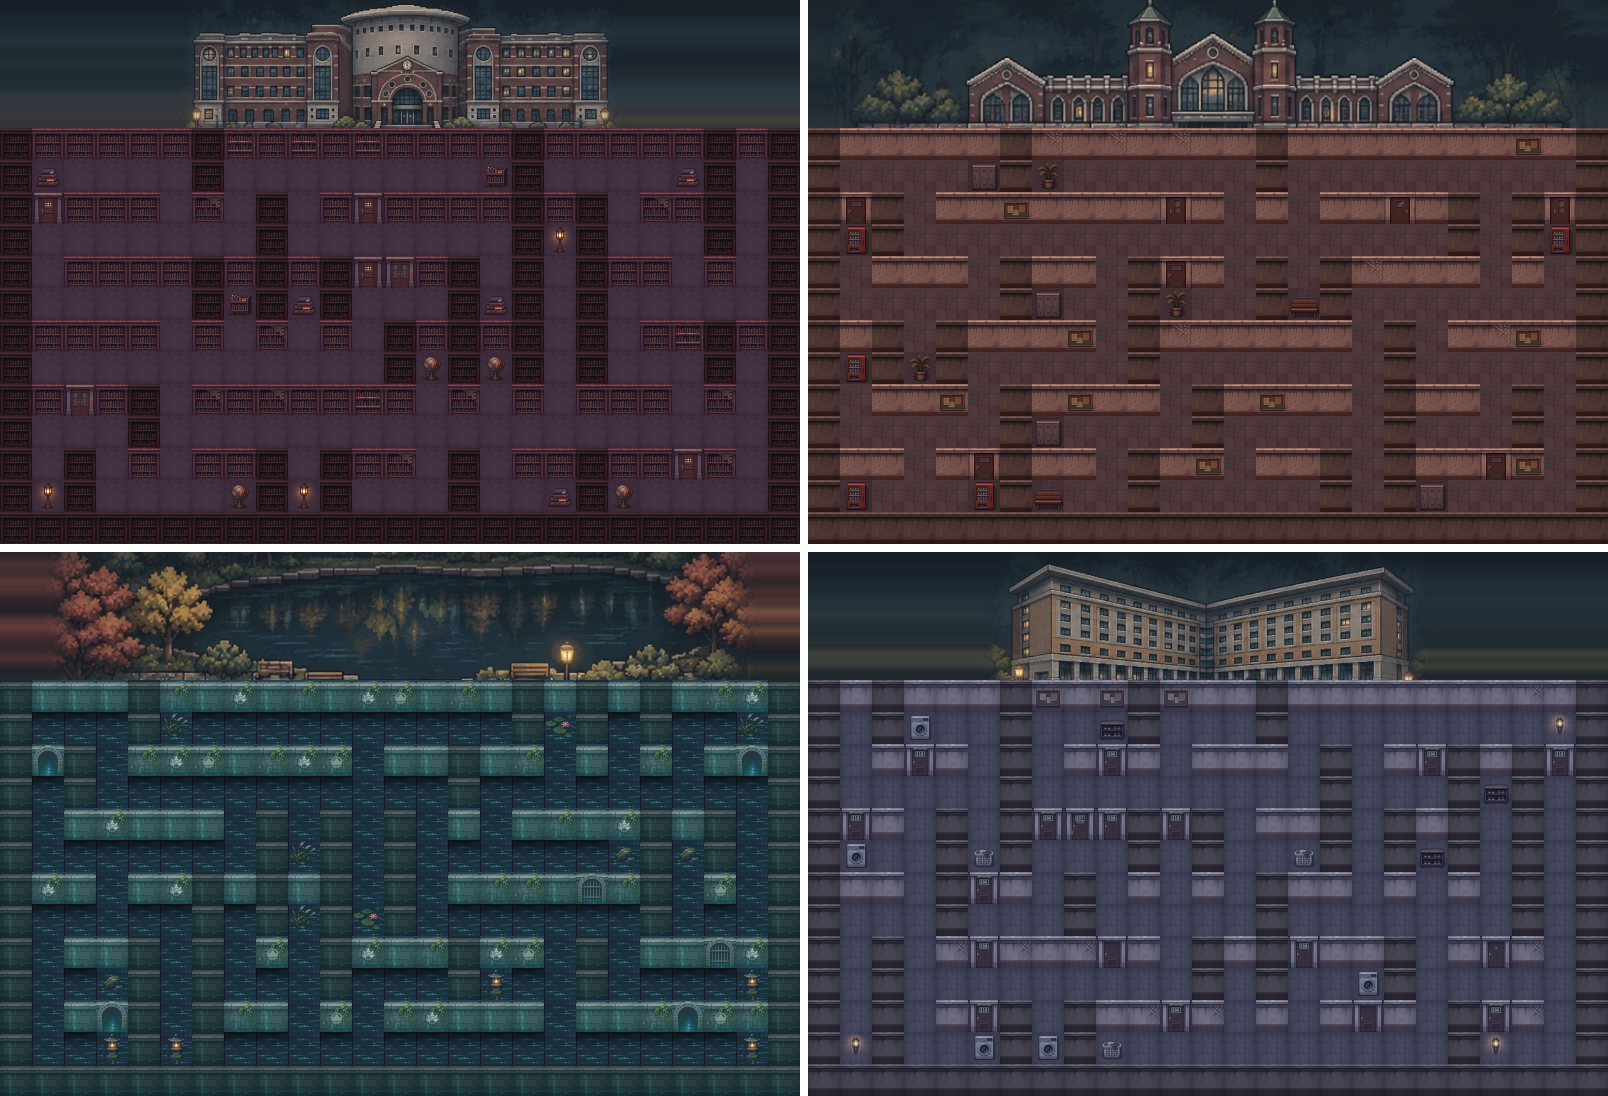
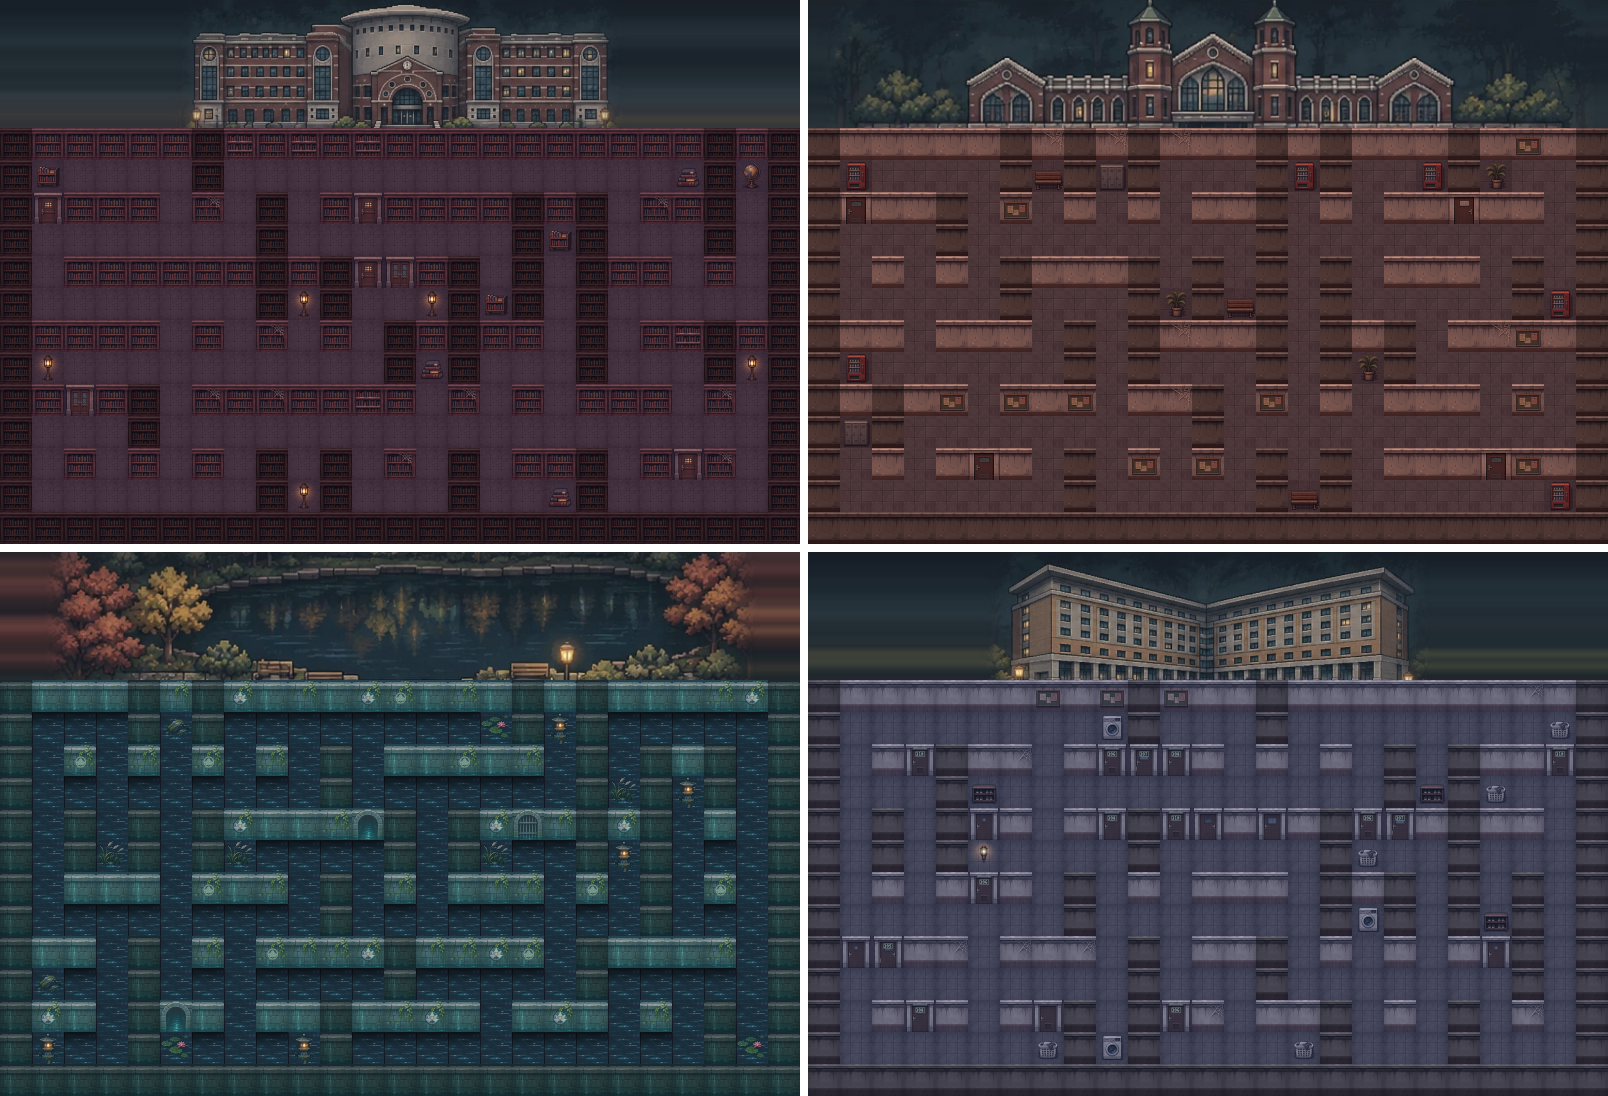
미로 랜덤 수정 & 무기 공격 Space

diff --git a/world.py b/world.py
@@ -8,7 +8,7 @@ from settings import (MAZE_COLS, MAZE_ROWS, TILE, ZONE_COUNT, ZONE_LAYOUT, FINAL
                       ZONE_NAMES, MONSTER_NAMES, MONSTER_SPRITES, FINAL_ZONE_NAME, BOSS_NAME,
                       DAY_LOOT, MAX_PICKUPS_PER_ZONE, FINAL_STAGE_POTIONS,
                       COURTYARD_ZONES, BUILDING_BAND_ROWS, COURTYARD_WALL_DENSITY,
-                      COURTYARD_COLS, COURTYARD_ROWS, COURTYARD_STEP, DECOR_PER_ZONE)
+                      COURTYARD_COLS, COURTYARD_ROWS, COURTYARD_STEP, COURTYARD_LOOPS, DECOR_PER_ZONE)
 from items import WeaponPickup, PotionPickup, Spear, Bow
 from entities import Monster, Boss, DIRECTIONS
 from themes import ASSET_DIR, DECOR_SYMBOLS, DEFAULT_THEME, ZONE_THEMES
@@ -113,7 +113,7 @@ class Maze:
         return parents[start], dist[start]
 
     @classmethod
-    def courtyard(cls, cols, rows, rng, band_rows, density, step=3, tries=4):
+    def courtyard(cls, cols, rows, rng, band_rows, density, step=3, tries=4, loops=0):
         """'건물 앞마당' 미로. 위쪽 band_rows 줄은 건물 그림 자리(벽으로 막음),
         그 아래는 담장으로 둘러싼 마당에 ㄱ·ㄴ·T자 벽 조각을 랜덤으로 세운다.
 
@@ -122,6 +122,8 @@ class Maze:
           그래서 "이미 벽으로 이어진 두 기둥 사이"에는 벽을 세우지 않는다. 담장 전체는 한 덩어리로 친다.
           → 길 찾기 없이도 모든 길이 항상 이어져 있다 (그래서 큰 미로도 빠르게 만들어짐).
         - 여러 번 만들어 보고 입구 → 탈출구 경로가 가장 긴 것을 고른다.
+        - 위 방법만 쓰면 길이 '나무 모양'이라 어디서 어디로 가든 길이 딱 하나뿐(갈림길은 전부 막다른 길).
+          그래서 마지막에 벽 loops칸을 뚫어 돌아가는 길(고리)을 만든다 → 길이 여러 갈래가 됨.
         반환: (미로, {"H": 입구, "E": 탈출구})
         """
         top, bottom = band_rows + 1, rows - 2               # 마당 안쪽 첫 줄 / 마지막 줄
@@ -183,10 +185,44 @@ class Maze:
                         grid[y][x] = 1
                         walls += 1
             maze = cls(grid)
+            maze.open_loops(rng, loops, top, bottom, keep)  # 고리를 뚫은 뒤에 길이를 재야 실제 난이도
             length = maze.distances_from(entrance).get(exit_, -1)
             if length > best_len:
                 best, best_len = maze, length
         return best, {"H": entrance, "E": exit_}
+
+    def open_loops(self, rng, count, top, bottom, keep=()):
+        """벽 count칸을 뚫어 길에 고리(돌아가는 길)를 만든다. 길을 막지는 않으므로 연결은 그대로 유지.
+        뚫을 수 있는 칸: 양옆(또는 위아래)이 길이고 반대쪽 두 칸은 벽인 '얇은 벽'. 큰 빈 공간이 생기지 않게.
+        막다른 길 옆의 벽을 먼저 뚫어서 막다른 길이 줄어들게 하고, 뚫은 곳끼리는 3칸 이상 떨어뜨린다."""
+        g, cols = self.grid, self.cols
+
+        def floor(x, y):
+            return 0 <= x < cols and 0 <= y < self.rows and g[y][x] == 0
+
+        def degree(x, y):
+            return sum(floor(x + dx, y + dy) for dx, dy in ((1, 0), (-1, 0), (0, 1), (0, -1)))
+
+        candidates = []
+        for y in range(top, bottom + 1):
+            for x in range(1, cols - 1):
+                if g[y][x] == 0 or (x, y) in keep:
+                    continue
+                horizontal = floor(x - 1, y) and floor(x + 1, y) and not floor(x, y - 1) and not floor(x, y + 1)
+                vertical = floor(x, y - 1) and floor(x, y + 1) and not floor(x - 1, y) and not floor(x + 1, y)
+                if horizontal or vertical:
+                    sides = [(x - 1, y), (x + 1, y)] if horizontal else [(x, y - 1), (x, y + 1)]
+                    near_dead_end = any(degree(*c) == 1 for c in sides)
+                    candidates.append((not near_dead_end, rng.random(), x, y))
+        candidates.sort()                                       # 막다른 길 옆부터, 그다음은 랜덤
+        opened = []
+        for _, _, x, y in candidates:
+            if len(opened) >= count:
+                break
+            if all(abs(x - ox) + abs(y - oy) >= 3 for ox, oy in opened):
+                g[y][x] = 0
+                opened.append((x, y))
+        return opened
 
 
 class Zone:
@@ -217,7 +253,7 @@ class Zone:
         if self.id in COURTYARD_ZONES:   # 건물 + 앞마당 랜덤 미로
             self.maze, markers = Maze.courtyard(COURTYARD_COLS, COURTYARD_ROWS, self.rng,
                                                 BUILDING_BAND_ROWS, COURTYARD_WALL_DENSITY,
-                                                step=COURTYARD_STEP)
+                                                step=COURTYARD_STEP, loops=COURTYARD_LOOPS)
             self.decor = self.place_decor(markers)
         elif map_file:    # 직접 디자인한 맵
             self.maze, markers, self.decor = Maze.from_file(os.path.join(ASSET_DIR, map_file))

diff --git a/settings.py b/settings.py
@@ -28,6 +28,7 @@ COURTYARD_ROWS = 17              # 세로 칸 수 (COURTYARD_ROWS - BUILDING_BAN
 BUILDING_BAND_ROWS = 4           # 건물 그림이 차지하는 줄 수 (4줄 = 128px)
 COURTYARD_STEP = 2               # 벽 격자 간격. 2 = 통로 1칸(복잡), 3 = 통로 2칸(널찍)
 COURTYARD_WALL_DENSITY = 0.5     # 마당 안쪽에서 벽이 차지하는 최대 비율 (클수록 복잡)
+COURTYARD_LOOPS = 7              # 벽을 몇 칸 뚫어 돌아가는 길을 만들지 (0 = 길이 딱 하나뿐인 미로, 클수록 갈래가 많음)
 DECOR_PER_ZONE = 14              # 타일 세트에 장식이 있는 건물: 막다른 길에 놓을 장식 수 (못 지나감)
 # 직접 디자인한 맵 파일(assets/ 기준). COURTYARD_ZONES에서 빼면 이 맵을 쓴다. 둘 다 없으면 기본 랜덤 미로.
 #   맵 기호: # 벽   . 길   H 입구   E 탈출구   P 화분  T 책상  L 조명 (장식은 지나갈 수 없음)

diff --git a/scenes.py b/scenes.py
@@ -19,7 +19,7 @@ MOVE_KEYS = {
     pygame.K_d: (1, 0), pygame.K_RIGHT: (1, 0),
 }
 LEFT_CLICK, RIGHT_CLICK = 1, 3
-ATTACK_KEYS = (pygame.K_j,)   # 마우스 없이 공격: 바라보는 방향으로
+ATTACK_KEYS = (pygame.K_SPACE,)   # 마우스 없이 공격: 바라보는 방향으로
 
 
 class Scene:

diff --git a/README.md b/README.md
@@ -89,7 +89,7 @@ python tools/build_exe.py
 |---|---|
 | WASD / 방향키 | 이동 |
 | 좌클릭 | 공격 (마우스 방향) / 과방 지도에서는 건물 입장 |
-| J | 공격 (바라보는 방향, 마우스 없이 플레이) |
+| Space | 공격 (바라보는 방향, 마우스 없이 플레이) |
 | 1, 2 | 창 / 활 선택 |
 | 3 | 물약 (최대 체력 50% 회복) |
 | ESC | 일시정지 |
@@ -122,7 +122,8 @@ python tools/build_exe.py
 - 위쪽 4줄(`settings.BUILDING_BAND_ROWS`)에 그 건물 그림, 아래는 담장 두른 돌바닥 마당
 - 미로: `Maze.courtyard()` — 2칸 간격 기둥 사이에 벽 조각을 랜덤으로 세움 (통로 1칸).
   **Union-Find**로 "이미 벽으로 이어진 두 기둥 사이엔 벽을 안 세움" → 벽이 고리를 못 만들어서 갇힌 곳이 절대 안 생김 (미로 하나 약 10ms).
-  4번 만들어 보고 입구(아래 가운데) → 탈출구(건물 바로 앞) 경로가 가장 긴 것을 고름 (한 화면 기준 약 30걸음). 새 게임마다 바뀜
+  그다음 얇은 벽 7칸을 뚫어 돌아가는 길(고리)을 만듦(`Maze.open_loops`, 개수 `settings.COURTYARD_LOOPS`) → 길이 딱 하나뿐인 미로가 안 되게. 막다른 길 옆 벽부터 뚫어서 막다른 길도 줄어듦 (약 23 → 13개)
+  4번 만들어 보고 입구(아래 가운데) → 탈출구(건물 바로 앞) 경로가 가장 긴 것을 고름 (한 화면 기준 약 25걸음). 새 게임마다 바뀜
 - 조절 (`settings.py`): 크기 `COURTYARD_COLS/ROWS`, 통로 폭 `COURTYARD_STEP` (2 = 1칸 복잡 / 3 = 2칸 널찍), 벽 비율 `COURTYARD_WALL_DENSITY`, 적용 건물 `COURTYARD_ZONES`
 - 그림 (`themes.py`, 건물별 등록은 `ZONE_THEMES`)
   - 4개 건물 모두 `ZoneTileTheme` (`CourtyardTheme` 상속) — 위쪽 건물 띠는 참고 그림 `tiles/campus_mazes.png`에서,
